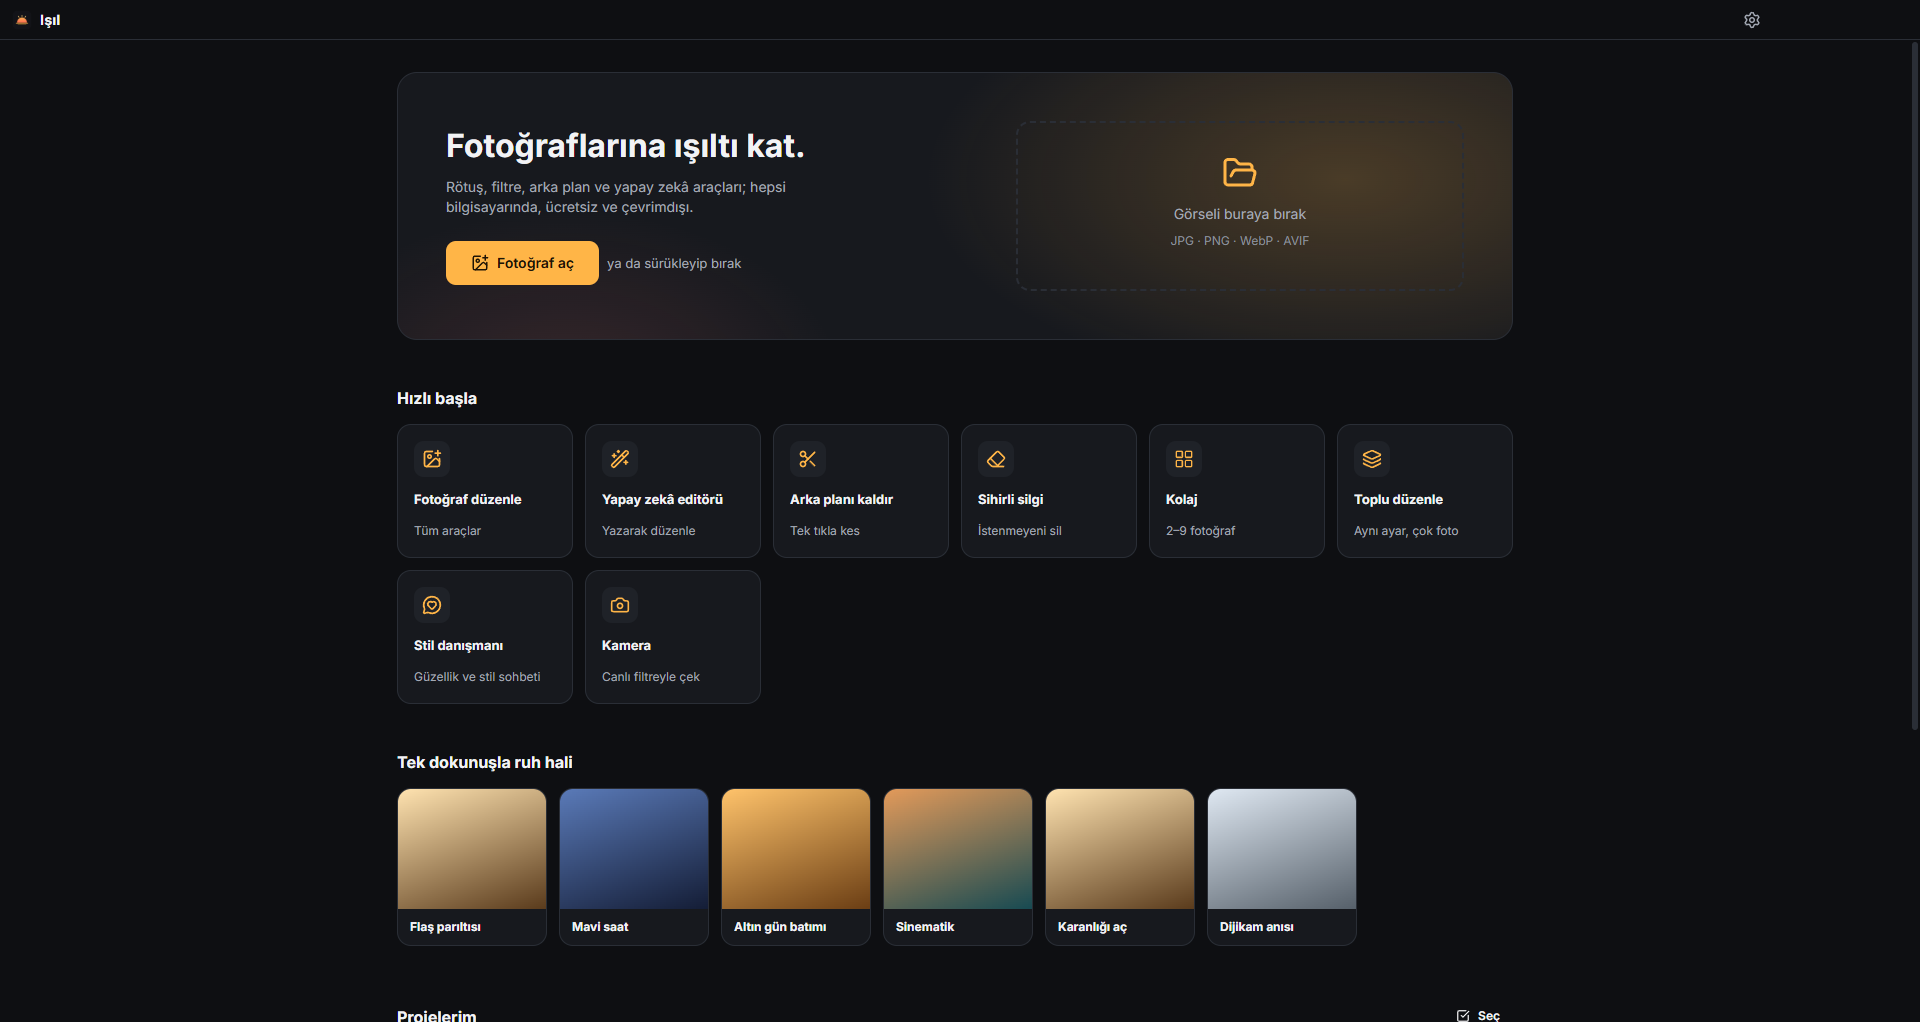
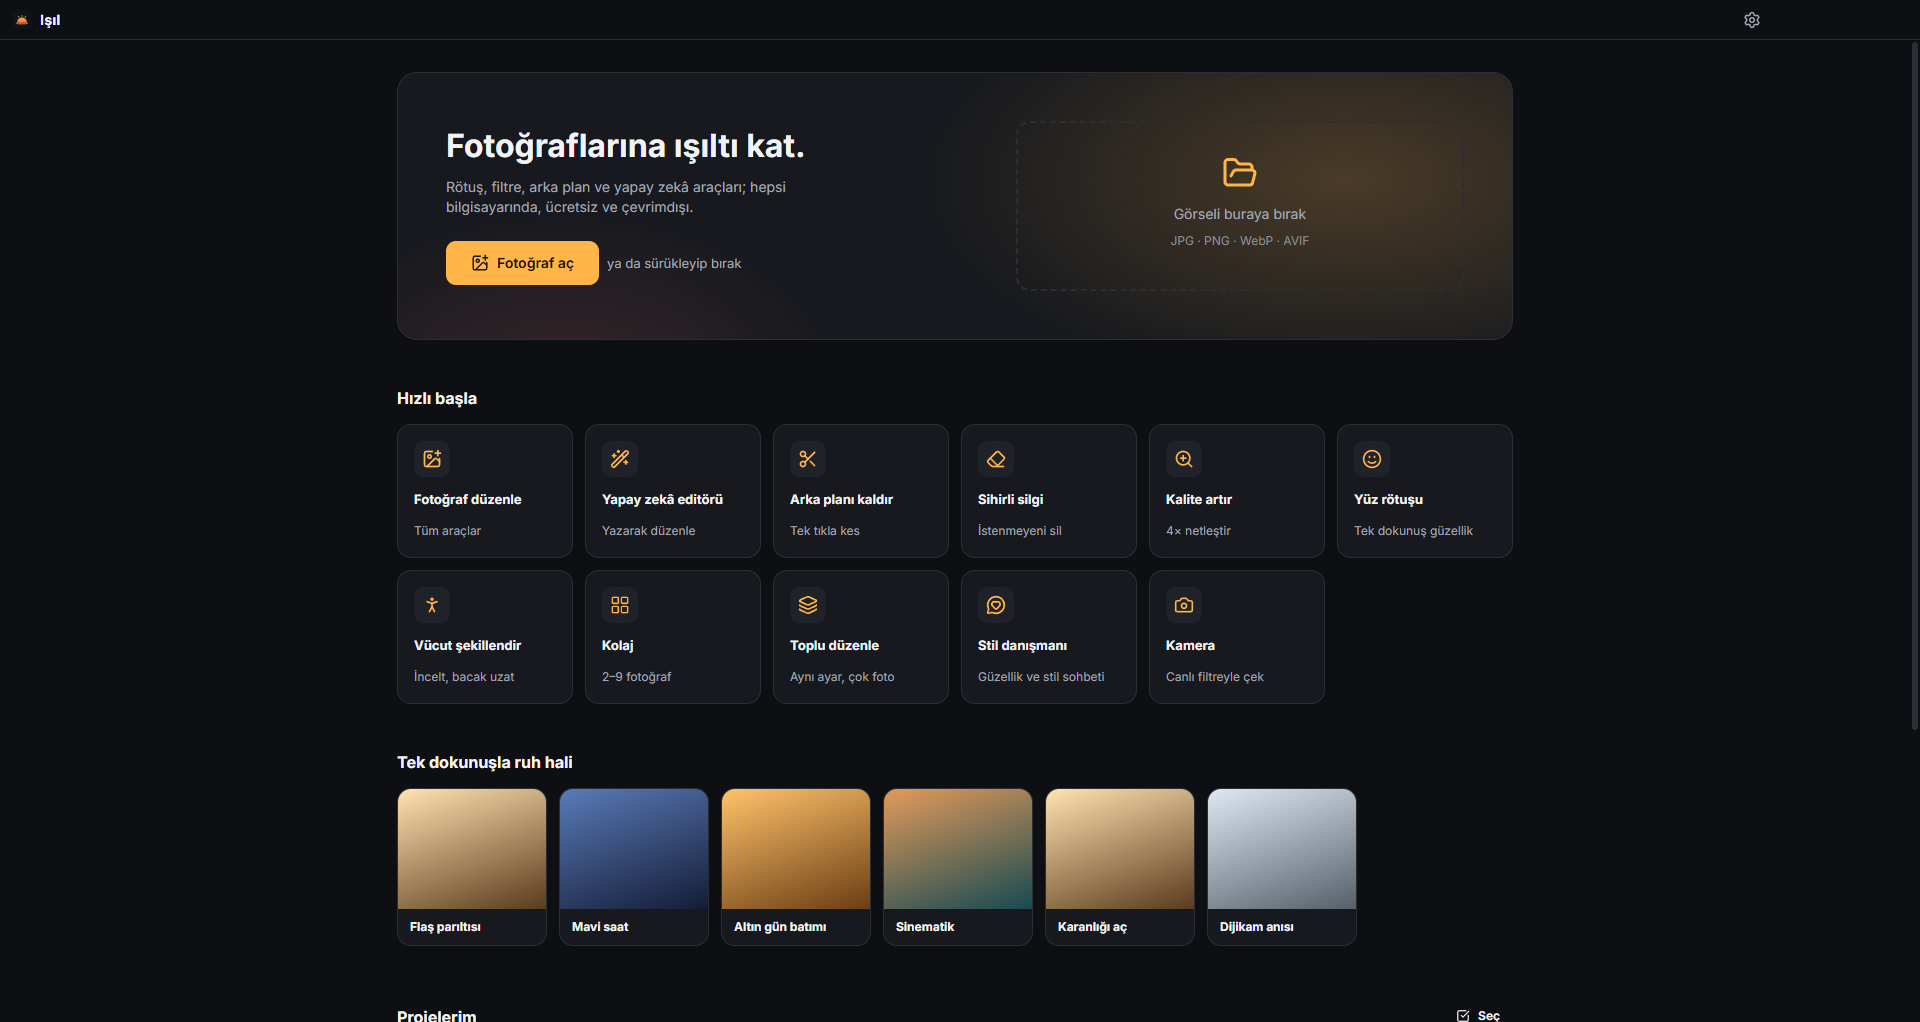
Sürüm 0.4.0

diff --git a/DEVAM.md b/DEVAM.md
@@ -11,7 +11,7 @@ Yeni sohbette ilk mesaj: **"Işıl/DEVAM.md dosyasını oku ve kaldığımız ye
 
 ## Durum
 
-- **Sürüm 0.3.0** yayımlandı ve kurulu (`%LOCALAPPDATA%\Programs\Isil`). Son commit `c6b039a`.
+- **Sürüm 0.4.0** yayımlandı ve kurulu (16.10; GitHub sürümü v0.4.0). Önceki: 0.3.0 (`%LOCALAPPDATA%\Programs\Isil`). Son commit `c6b039a`.
 - **Testler (hepsi geçiyor):** `node tests/e2e/smoke.mjs` 11/11 · `audit.mjs` 41/41 · `ui-sweep.mjs` 36/36 · `ai-local.mjs` 11/11 · `gpu-switch.mjs` 12/12. Önce `npm run build` (audit için `python tests/fixtures/make.py`).
 - **0.3.0 plandaki 8 aşama bitti** (`replica/plan-0.3.md`). Doğrulama: `replica/dogrulama-0.3.md` (loş grup 0→4 yüz; yüz onarmada kimlik güç 1'de 0,56→0,88).
 - **Rakip incelemesi (kullanarak, BlueStacks):** `replica/rekabet/inceleme-notlari.md`. Özet: rakiplerin YZ araçlarının çoğu bulutta; Peachy otomatik silmesi sessizce başarısız; FaceApp ücretsizde her şey Pro; PicsArt bulut yumuşatma yanak dövmesini siliyor.
@@ -21,7 +21,6 @@ Yeni sohbette ilk mesaj: **"Işıl/DEVAM.md dosyasını oku ve kaldığımız ye
 - Not ve ölçüm: `replica/arge/01-rotus-isaret-koruma.md` ("Sonuç" bölümü).
 - **A:** leke gidericiye kontrast bandı (RETOUCH shader'ı). Çok koyu işaretler otomatik korunuyor.
 - **B (2026-10-16):** Cilt panelinde "İşaretleri koru" fırçası. `FaceEdit.protect` → `buildProtectMask` → `uMaskP`; yumuşatma, leke, kırışık ve ten o bölgede sıfır. Dövmeli yüzde dövme farkı 3,50 → 0,33, yanak aynı. Test: `node tests/e2e/protect.mjs` 6/6.
-- Sürüm hâlâ 0.3.0; değişiklik CHANGELOG'da "Yayımlanmamış (0.4 adayı)" altında. Kurulu uygulamaya henüz gelmedi.
 - audit'te Z-01 bir kez MediaPipe segmenter "ROI width and height must be > 0" hatasıyla kaldı, yeniden çalıştırınca 41/41 geçti (kararsız; koruma işiyle ilgisiz).
 - **Ar-Ge 2 (16.10): yüz bükmesi.** `replica/arge/02-yuz-bukme.md`. BlueStacks'te Peachy/PicsArt ızgaralı portreyle ölçüldü (Hypic açılmıyor). Işıl'ın kontur kaydırıcıları MLS'ye geçti. Ölçüm düzeneği depo dışında: `Projeler/isil-olcum` (ADB: `HD-Adb -s 127.0.0.1:5555`; PicsArt FLAG_SECURE → pencere yakalama `cap.ps1`; akış `akis.py`). Işıl tarafı `node tests/e2e/warp-olcum.mjs <görsel> <klasör>`.
 - Göz elipsi ve vücut bantları da yapıldı (aynı not). Testler artık Temp'i temizliyor (`tests/e2e/_tmp.mjs`).

diff --git a/CHANGELOG.md b/CHANGELOG.md
@@ -2,7 +2,9 @@
 
 Her büyük güncellemede sürüm numarası artırılır (`npm version <x.y.z> --no-git-tag-version`), uygulama Ayarlar → Hakkında'da sürümü gösterir.
 
-## Yayımlanmamış (0.4 adayı)
+## 0.4.0 — 2026-10-16
+
+Ar-Ge 1 (rötuşta işaretleri koruma), Ar-Ge 2 (yüz ve vücut bükmesi, rakip ölçümleriyle) ve rakip incelemesinden çıkan arayüz işleri (`replica/arge/`). Işıl artık özgün, açık kaynak (MIT) bir masaüstü düzenleyici olarak konumlanıyor.
 
 - Ctrl+K: kaydırıcı düzeyinde arama ("bel", "cene hatti", "golgeler"); Enter aracı açar, alt sekmeyi seçer, kaydırıcıyı vurgular
 - Değişen kategoride nokta: yüz şekli sekmeleri, makyaj, filtre/efekt kategorileri, eğri kanalları
